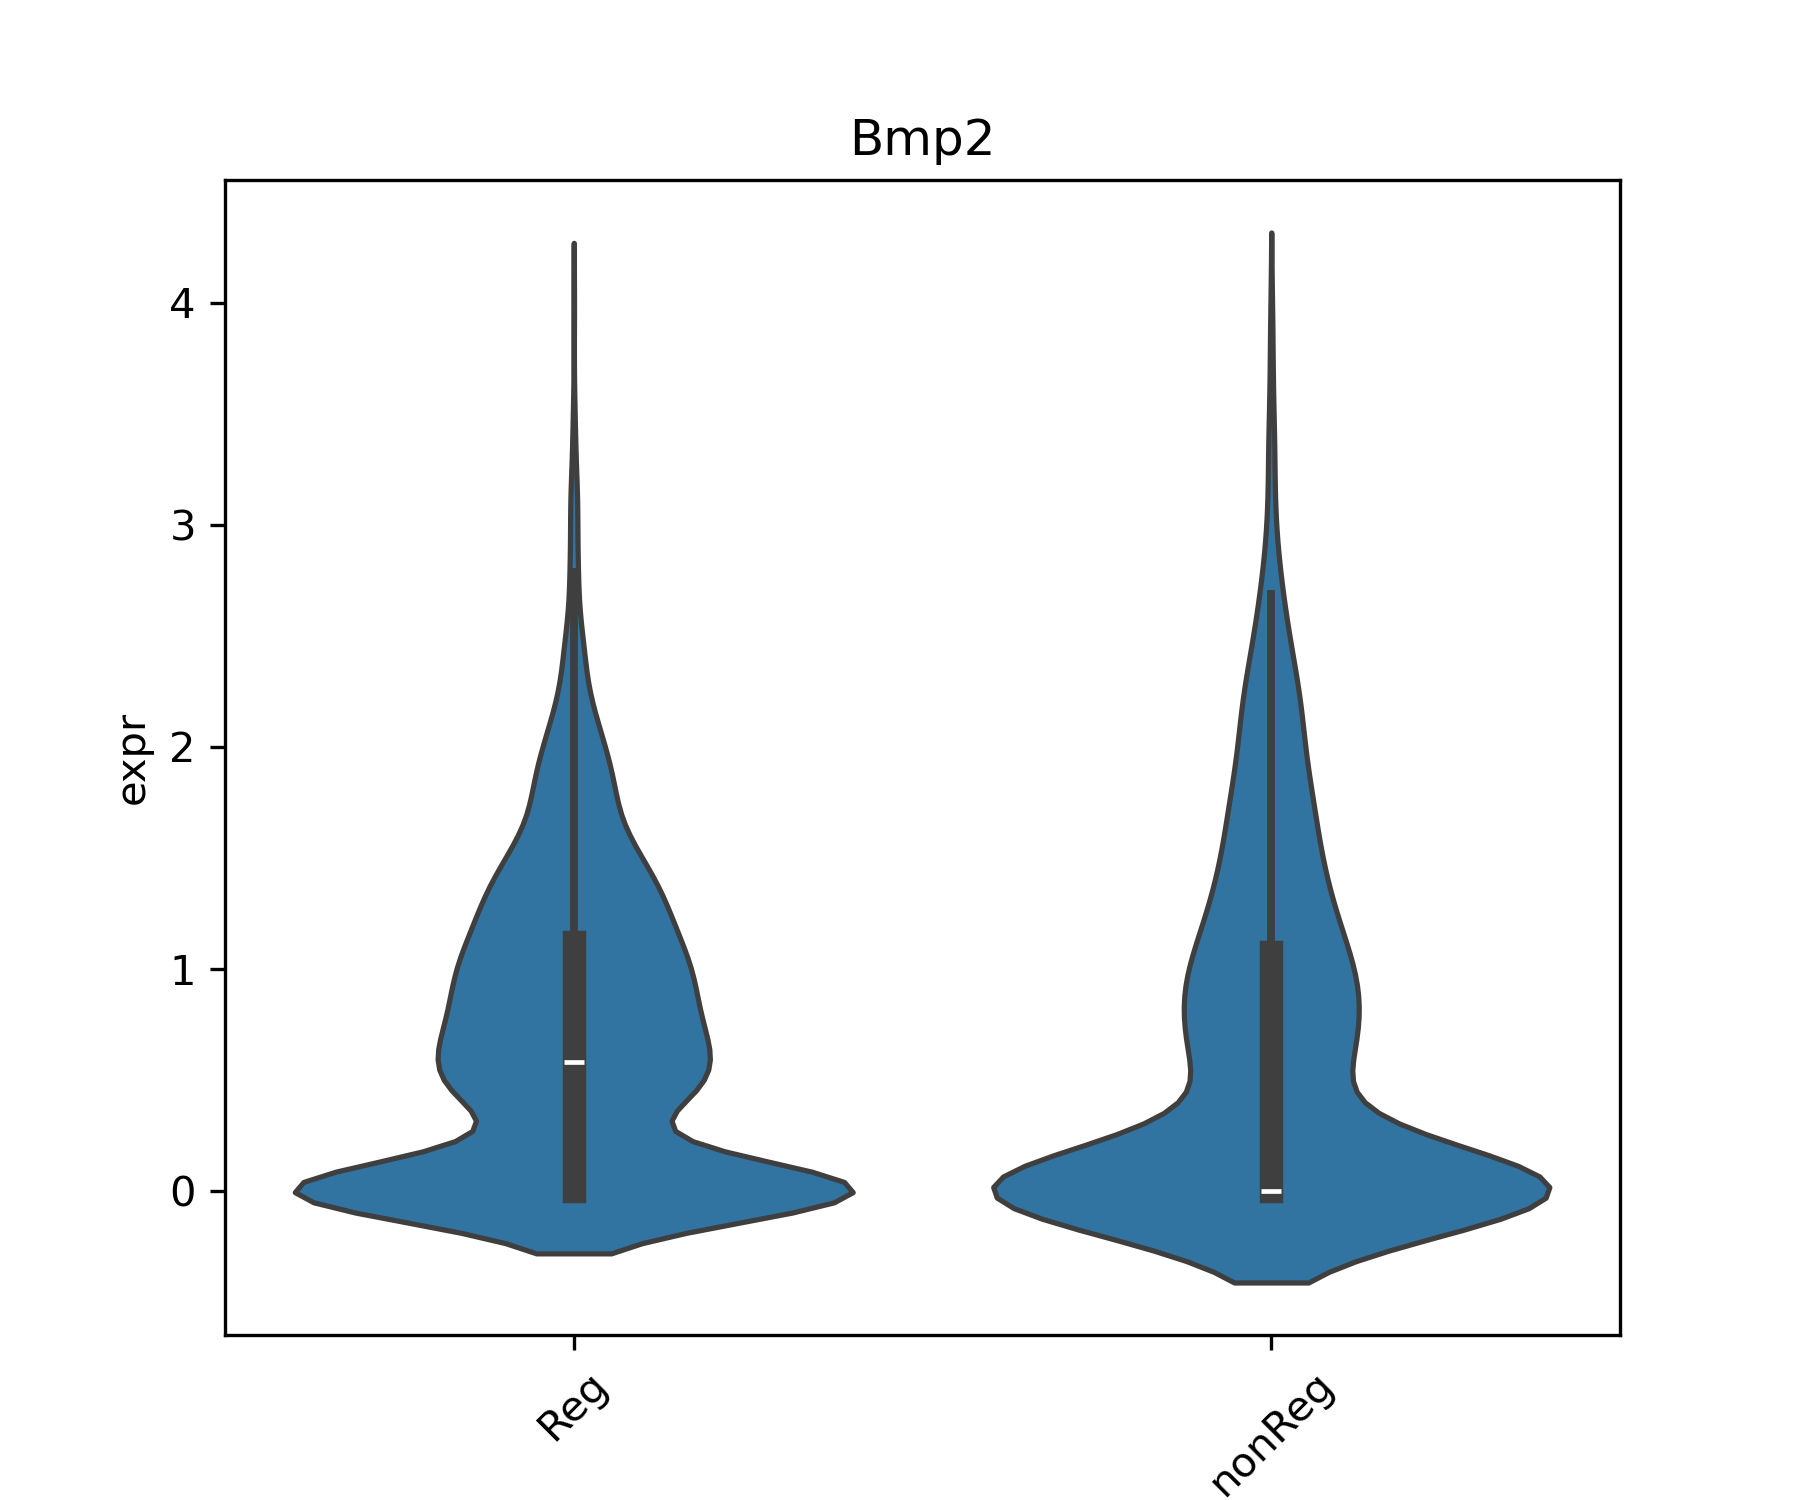
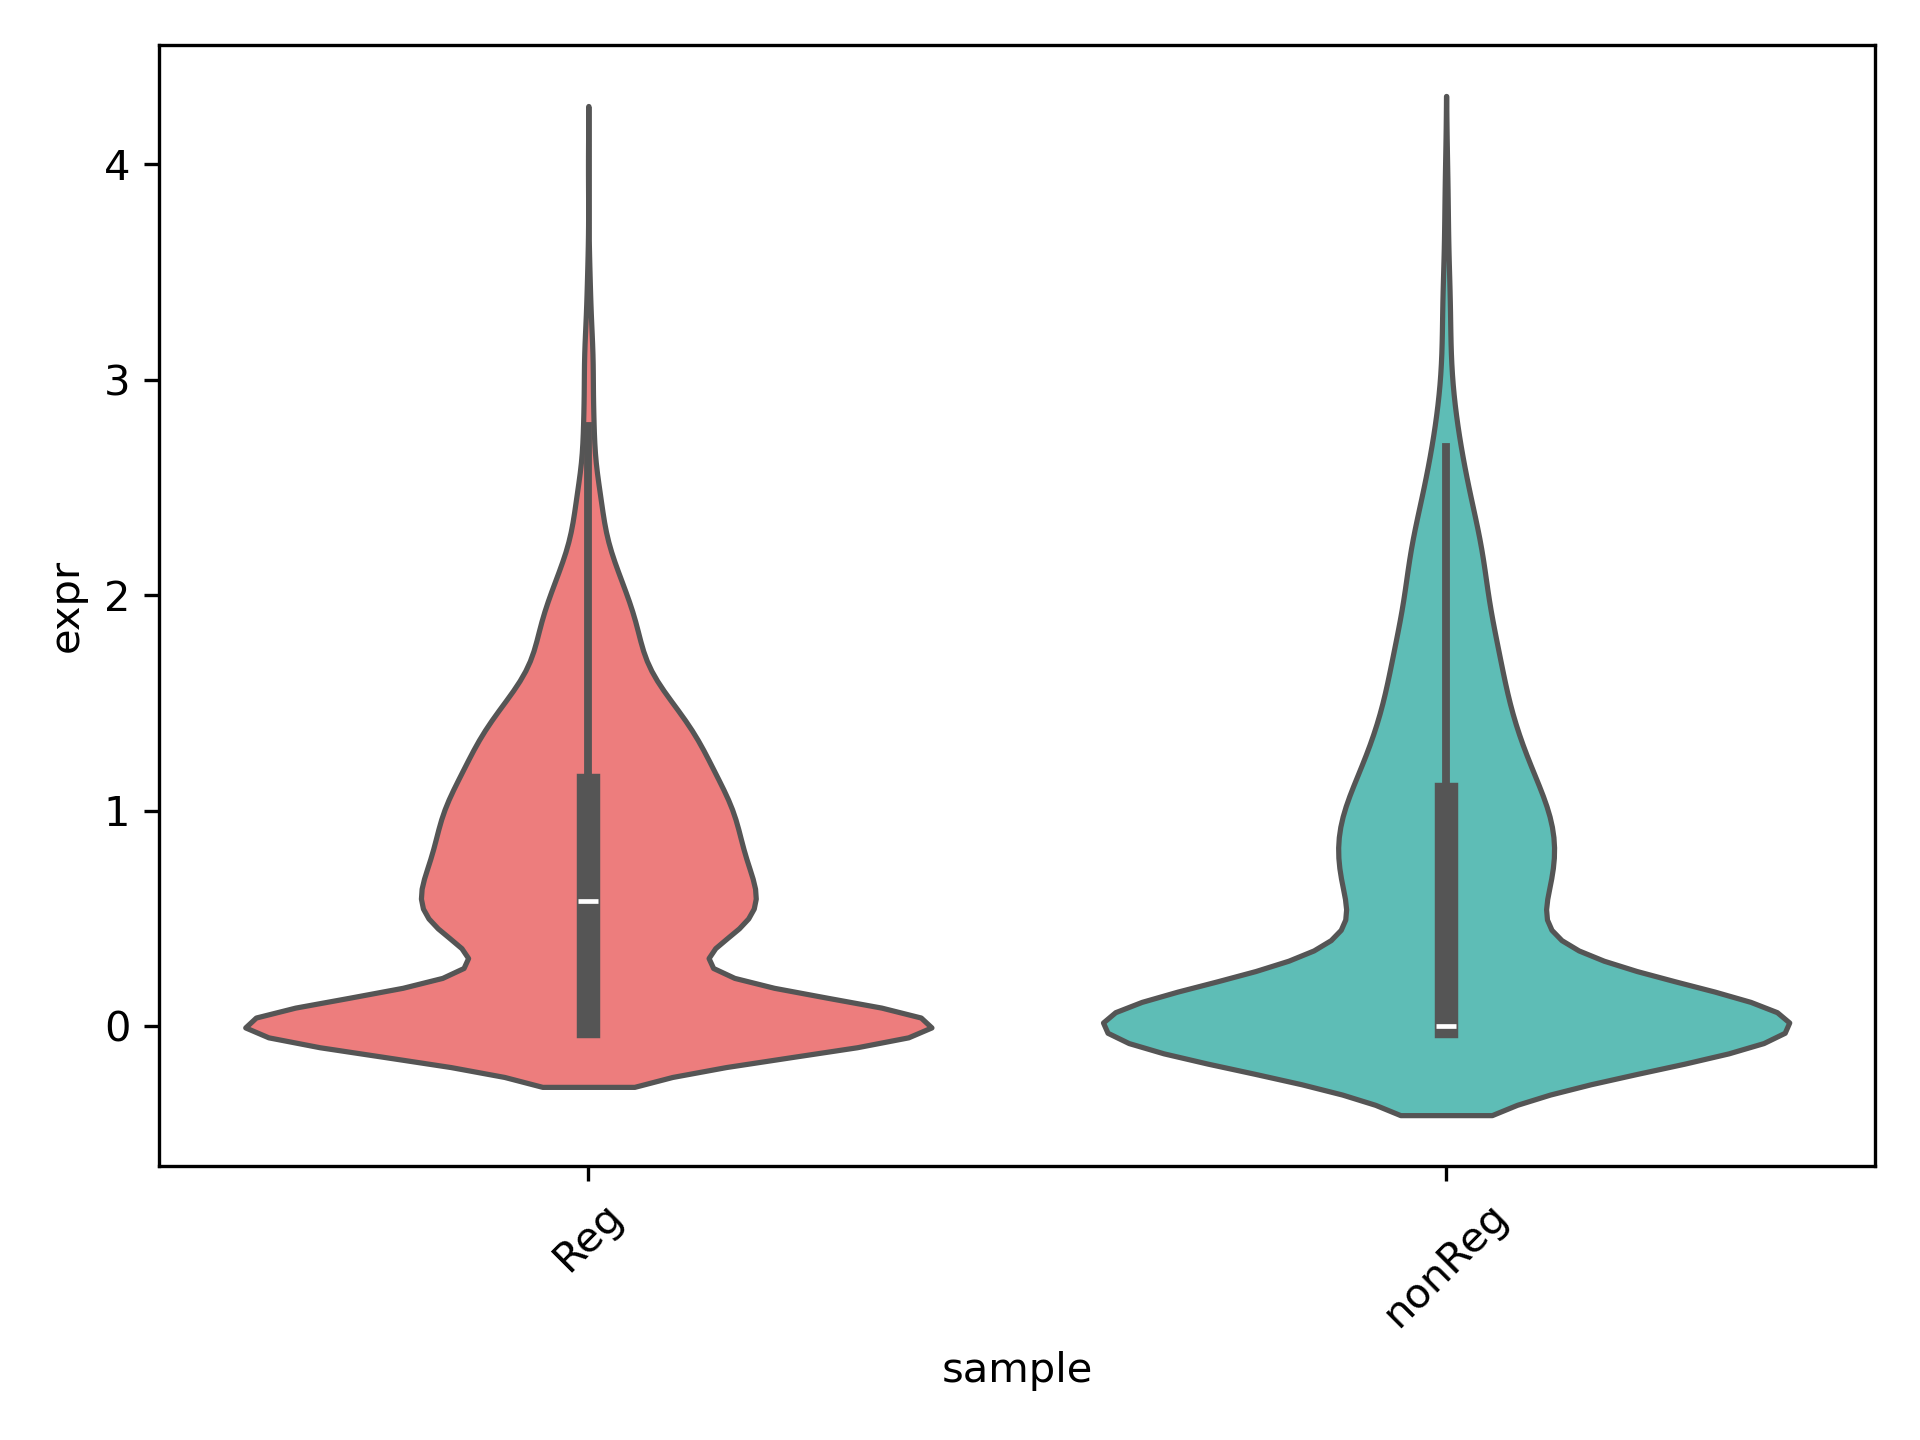
Update color palatte of violin plot

diff --git a/src/zoomSecreted.py b/src/zoomSecreted.py
@@ -46,12 +46,9 @@ for g in adata.uns["rank_genes_groups"]["names"].dtype.names:
 df = pd.concat(dfs, ignore_index=True)
 df["neglog10_padj"] = -np.log10(df["pvals_adj"] + 1e-300)
 
-# ============================================================
-# FIXED TOP N SELECTION (IMPORTANT)
-# rank by:
-# 1. adj p-value (ascending = most significant first)
-# 2. abs logFC (descending = strongest effect)
-# ============================================================
+# ----------------------------
+# TOP N SELECTION
+# ----------------------------
 df_unique = df.drop_duplicates("names")
 
 df_top = (
@@ -70,7 +67,7 @@ top_genes = set(df_top["names"])
 secreted_in_dge = set(df[df["names"].isin(secreted)]["names"])
 
 # ----------------------------
-# FINAL SET
+# FINAL GENES
 # ----------------------------
 genes_plot = sorted(top_genes.union(secreted_in_dge))
 
@@ -101,14 +98,11 @@ plt.scatter(
     edgecolors="black"
 )
 
-# ============================================================
-# FIXED LABELS (NO BOX, WITH POINTER ARROWS)
-# ============================================================
 for _, r in df_plot.iterrows():
     plt.annotate(
         r["names"],
         xy=(r["logfoldchanges"], r["neglog10_padj"]),
-        xytext=(8, 8),  # offset label position
+        xytext=(8, 8),
         textcoords="offset points",
         fontsize=8,
         arrowprops=dict(
@@ -130,8 +124,9 @@ plt.title(f"Volcano: Top {args.topn} + Secreted Genes")
 plt.tight_layout()
 plt.savefig(f"figures/{args.prefix}_volcano.png", dpi=300)
 plt.close()
+
 # ============================================================
-# FEATURE PLOTS PER SAMPLE (ONE PER SAMPLE PER GENE)
+# FEATURE PLOTS PER SAMPLE
 # ============================================================
 if "X_umap" in adata.obsm:
     for gene in genes_plot:
@@ -160,6 +155,7 @@ if "X_umap" in adata.obsm:
 
             except:
                 pass
+
 # ============================================================
 # DOTPLOT
 # ============================================================
@@ -171,13 +167,13 @@ if len(genes_plot) > 0:
             groupby="sample",
             layer="log1p",
             show=False,
-            dendrogram=False,          # removes extra clutter
-            swap_axes=True,            # makes gene names readable
-            standard_scale="var",      # improves contrast across genes
-            figsize=(max(8, len(genes_plot) * 0.4), 6)  # auto widen for genes
+            dendrogram=False,
+            swap_axes=True,
+            standard_scale="var",
+            figsize=(max(8, len(genes_plot) * 0.4), 6)
         )
 
-        plt.xticks(rotation=90, fontsize=9)   # gene names readable
+        plt.xticks(rotation=90, fontsize=9)
         plt.yticks(fontsize=10)
 
         plt.tight_layout()
@@ -191,8 +187,9 @@ if len(genes_plot) > 0:
 
     except:
         pass
+
 # ============================================================
-# VIOLIN + BOX
+# VIOLIN (ONLY FIXED PART)
 # ============================================================
 for gene in genes_plot:
     if gene not in adata.var_names:
@@ -209,19 +206,30 @@ for gene in genes_plot:
 
         df_expr = pd.DataFrame(df_expr)
 
-        plt.figure()
-        sns.violinplot(data=df_expr, x="sample", y="expr")
-        plt.xticks(rotation=45)
-        plt.tight_layout()
-        plt.savefig(f"figures/{args.prefix}_violin_{gene}.png", dpi=300)
-        plt.close()
+        samples = df_expr["sample"].unique()
+        colors = [
+            "#FF6B6B", "#4ECDC4", "#45B7D1", "#96CEB4",
+            "#FFEAA7", "#DDA0DD", "#98D8C8", "#F7B05E"
+        ]
+
+        palette = {s: colors[i % len(colors)] for i, s in enumerate(samples)}
 
         plt.figure()
-        sns.boxplot(data=df_expr, x="sample", y="expr")
-        sns.stripplot(data=df_expr, x="sample", y="expr", size=2, alpha=0.4)
+
+        sns.violinplot(
+            data=df_expr,
+            x="sample",
+            y="expr",
+            palette=palette
+        )
+
         plt.xticks(rotation=45)
         plt.tight_layout()
-        plt.savefig(f"figures/{args.prefix}_box_{gene}.png", dpi=300)
+
+        plt.savefig(
+            f"figures/{args.prefix}_violin_{gene}.png",
+            dpi=300
+        )
         plt.close()
 
     except:

diff --git a/README.md b/README.md
@@ -367,9 +367,9 @@ Now overlapping with Secreted genes
 
 #### Violin plots for genes of interest in Fibroblast 
 
-![](figures/Fibroblast_violin_Bmp2.png?v=2) 
+![](figures/Fibroblast_violin_Bmp2.png?v=3) 
 
-![](figures/Fibroblast_violin_Bmp4.png?v=2)
+![](figures/Fibroblast_violin_Bmp4.png?v=3)
 
 #### Feature plots for genes of interest in Fibroblast 
 
